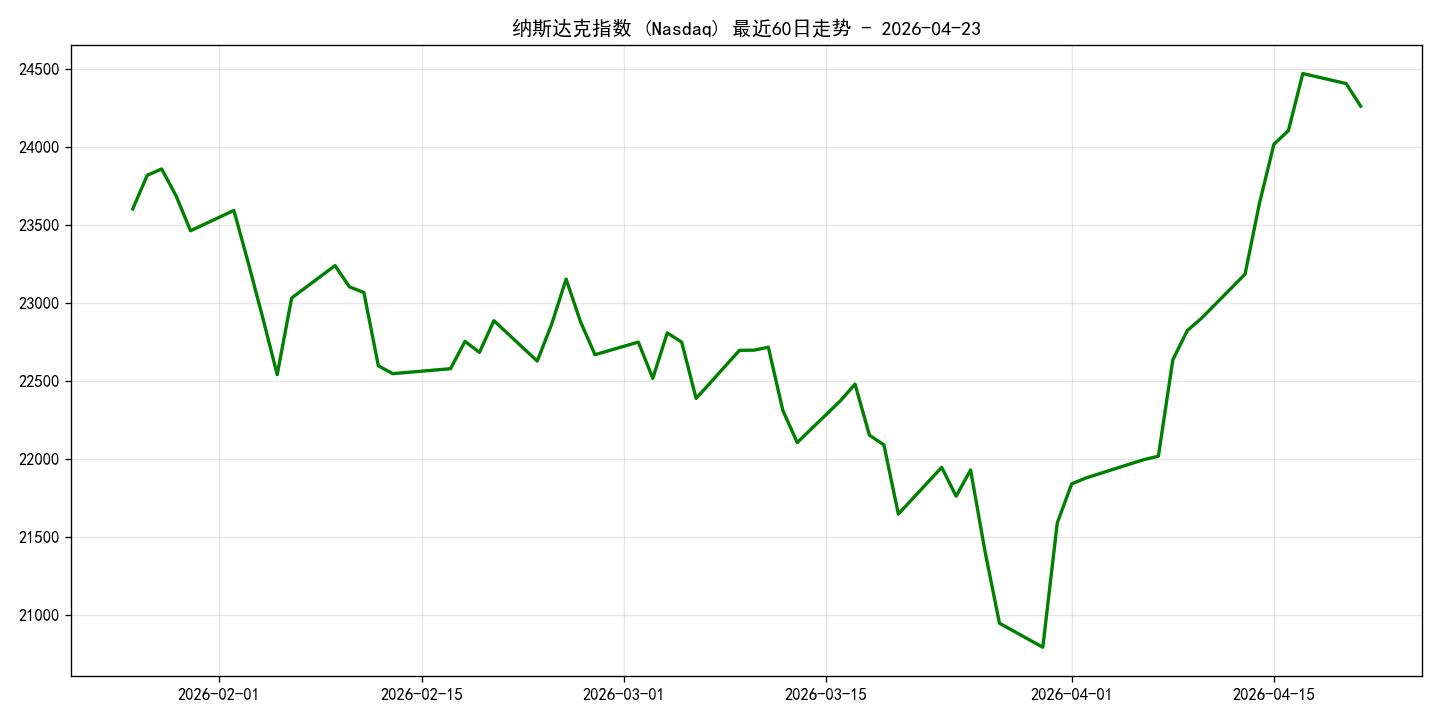
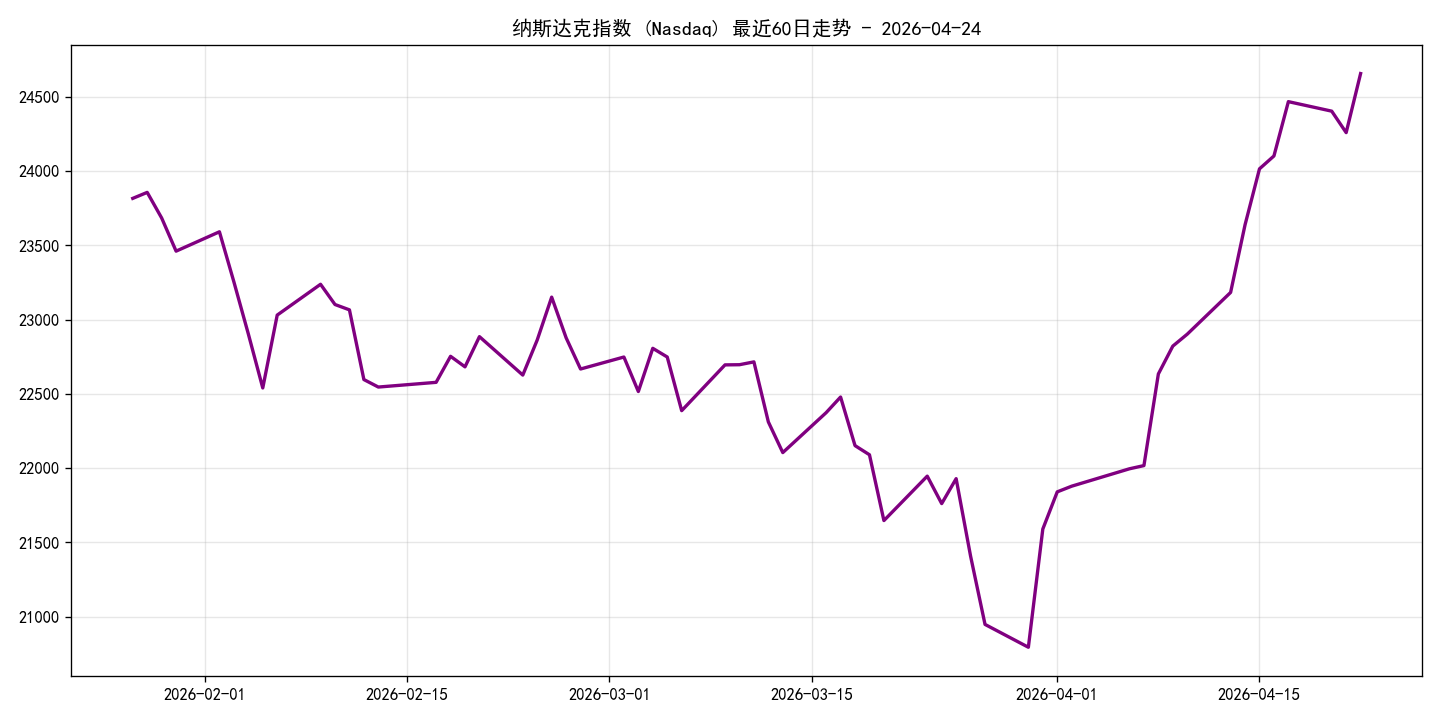
Auto: Daily US-share Recap Update 2026-04-23

diff --git a/usshare_recap.html b/usshare_recap.html
@@ -3,7 +3,7 @@
 <head>
     <meta charset="UTF-8">
     <meta name="viewport" content="width=device-width, initial-scale=1.0">
-    <title>美股收盘复盘 - 2026-04-23</title>
+    <title>美股收盘复盘 - 2026-04-24</title>
     <style>
         body { font-family: sans-serif; padding: 20px; line-height: 1.6; max-width: 800px; margin: 0 auto; background: #f9f9f9; }
         .card { background: white; padding: 20px; border-radius: 12px; shadow: 0 4px 10px rgba(0,0,0,0.1); }
@@ -15,12 +15,12 @@
 </head>
 <body>
     <div class="card">
-        <h1>美股收盘复盘 (2026-04-23)</h1>
+        <h1>美股收盘复盘 (2026-04-24)</h1>
         <div class="stat">
-            纳斯达克 (Nasdaq)：24259.96 
-            <span class="down">(-0.59%)</span>
+            纳斯达克 (Nasdaq)：24657.57 
+            <span class="up">(+1.64%)</span>
         </div>
-        <p>美股上一交易日收盘呈 <strong>下跌</strong> 态势。</p>
+        <p>美股上一交易日收盘呈 <strong>上涨</strong> 态势。</p>
         <img src="usshare_recap_trend.png" alt="Trend">
         <hr>
         <p style="text-align: center; color: #666;">自动生成于收盘后一小时 | 投研助手 Q</p>
